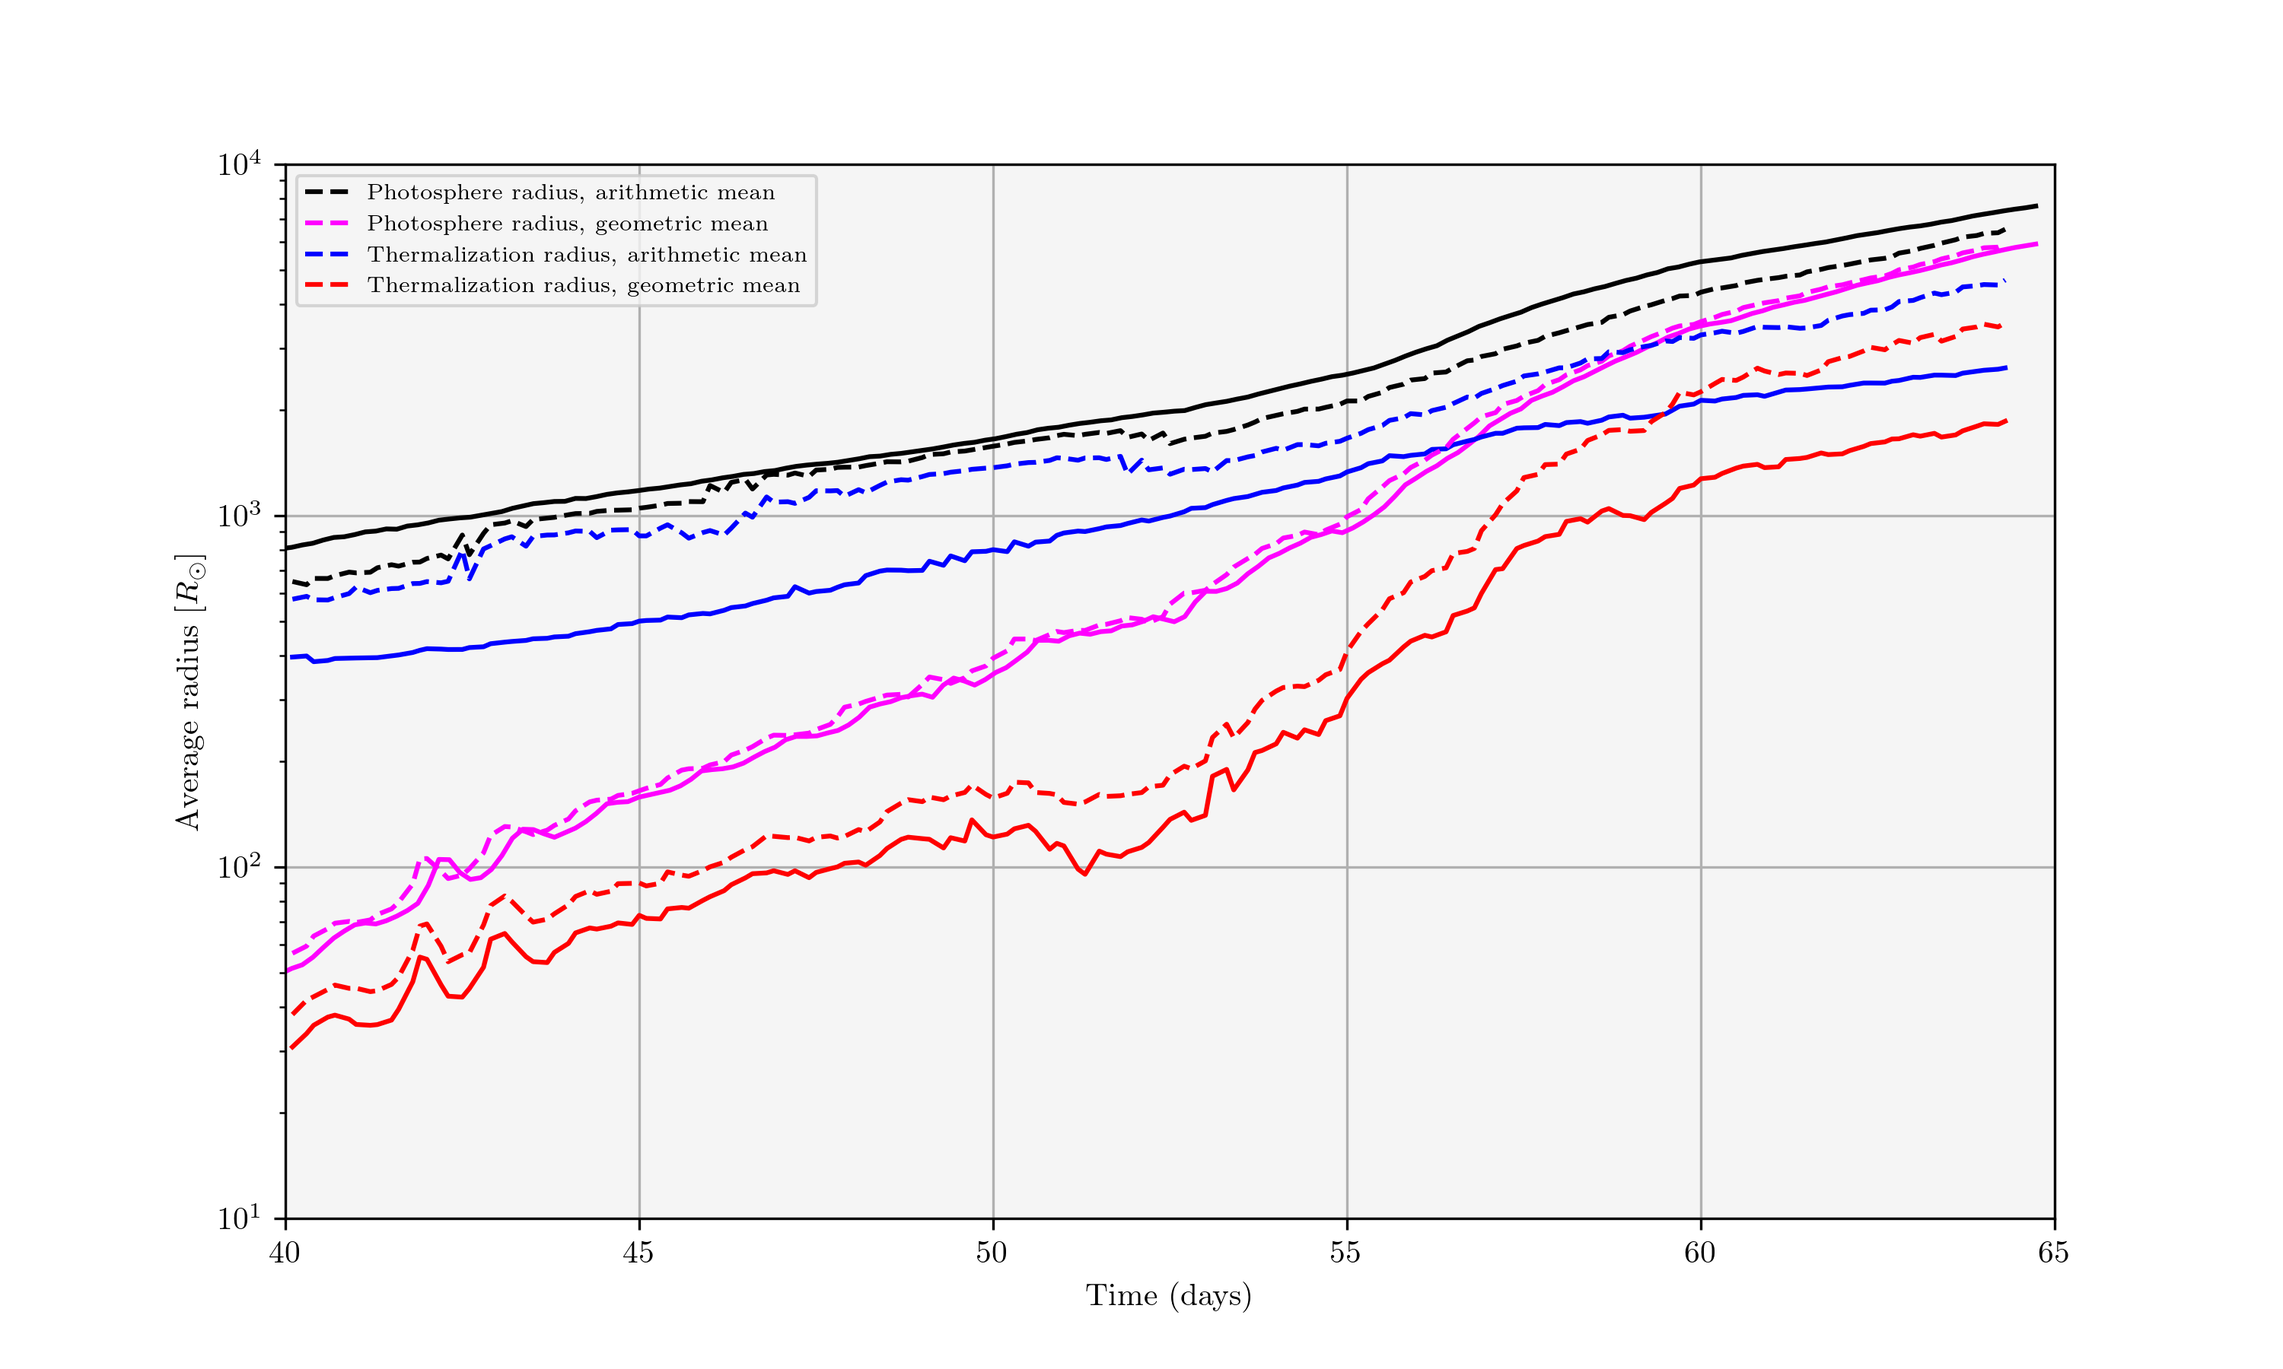
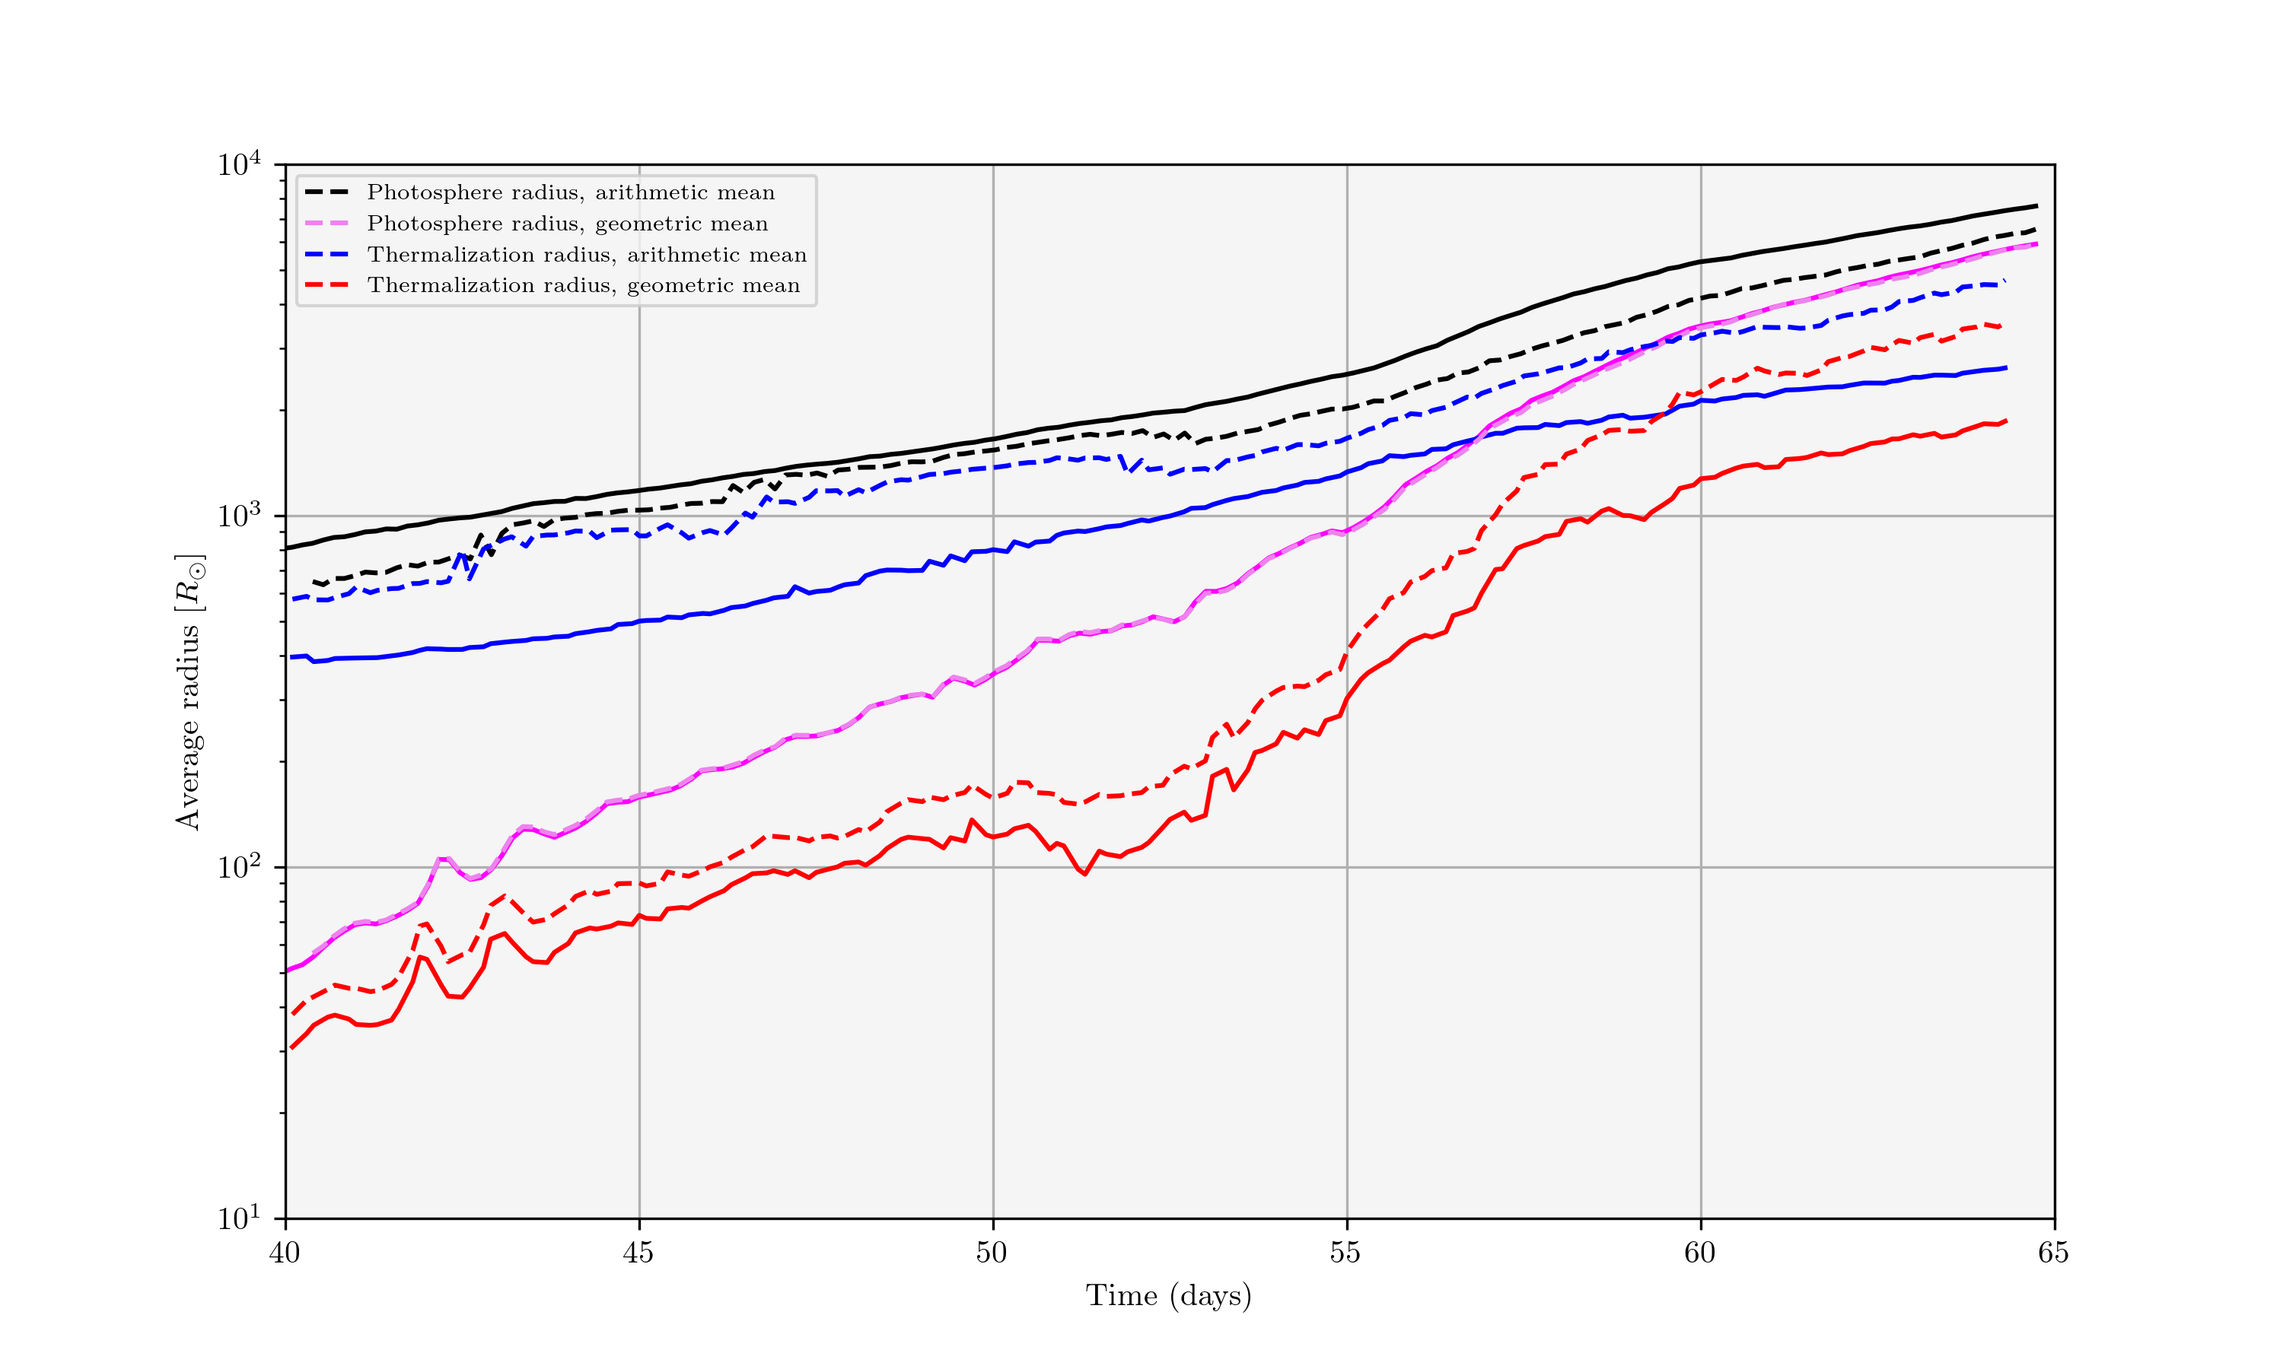
no more astropy for ray_maker. but nothing changes

diff --git a/src/Luminosity/special_radii_tree.py b/src/Luminosity/special_radii_tree.py
@@ -16,7 +16,7 @@ sys.path.append('/Users/paolamartire/tde_comparison')
 
 # Vanilla Imports
 import numpy as np
-import healpy as hp
+import h5py
 from scipy.stats import gmean
 
 import matplotlib.pyplot as plt
@@ -218,7 +218,8 @@ def get_specialr(rays_T, rays_den, radius, tree_indexes, select):
 if __name__ == "__main__":
     photosphere = True
     thermalisation = True
-    plot = False
+    plot = True
+    save = True
     check = 'fid'
     m = 6 
 
@@ -231,74 +232,86 @@ if __name__ == "__main__":
     fix_thermr_arit = np.zeros(len(snapshots))
     fix_thermr_geom = np.zeros(len(snapshots))
 
-    for index in range(len(snapshots)):        
+    for index in range(0,1):#len(snapshots)):        
         print('Snapshot ' + str(snapshots[index]))
         tree_indexes, _, rays_T, rays_den, rays, radii, rays_vol = ray_maker(snapshots[index], m, check)
 
         if photosphere:
             rays_kappa, rays_cumulative_kappas, rays_photo, _, _ = get_specialr(rays_T, rays_den, radii, tree_indexes, select='photo')
             rays_photo = rays_photo/Rsol_to_cm # to solar unit to plot
+            elad_photo = np.zeros(len(rays_photo))
+            with h5py.File(f'data/elad/data_{snapshots[index]}.mat', 'r') as f:
+                elad_ph = f['r_photo'][0]
+            for i in range(len(elad_photo)):
+                elad_photo[i] =  elad_ph[i]
 
             fix_photo_arit[index] = np.mean(rays_photo)
             fix_photo_geom[index] = gmean(rays_photo)
 
             if plot:
                 fig, ax = plt.subplots(figsize = (8,6))
-                img = ax.scatter(np.arange(192), rays_photo, c = 'k', s = 15)
+                ax.scatter(np.arange(192), rays_photo, c = 'k', s = 15, label = 'us')
+                ax.scatter(np.arange(192), elad_photo, c = 'b', s = 15, label = 'SteinbergStone')
+                plt.axhline(np.mean(elad_photo), c = 'r')#, label = r'$\bar{R}_{ph}$ arit mean') #Elad
+                plt.axhline(gmean(elad_photo), c = 'green')#, label = r'$\bar{R}_{ph}$ geom mean') #Elad
                 plt.axhline(np.mean(rays_photo), c = 'r', linestyle = '--', label = r'$\bar{R}_{ph}$ arit mean')
-                plt.axhline(gmean(rays_photo), c = 'b', linestyle = '--', label = r'$\bar{R}_{ph}$ geom mean')
-                # plt.axhline(800, c = 'r', label = r'$\bar{R}_{ph}$ arit mean') #Elad
-                # plt.axhline(50, c = 'b', label = r'$\bar{R}_{ph}$ geom mean') #Elad
+                plt.axhline(gmean(rays_photo), c = 'limegreen', linestyle = '--', label = r'$\bar{R}_{ph}$ geom mean')
                 plt.xlabel('Observers')
                 plt.ylabel('$\log_{10} R_{ph} [R_\odot]$')
                 plt.yscale('log')
                 plt.grid()
                 plt.legend()
-                plt.savefig('photo_obs' + str(snapshots[index]) + '.png')
+                #plt.savefig('Figs/photo_obs' + str(snapshots[index]) + '.png')
                 plt.show()  
-                
 
         if thermalisation: 
             rays_tau, rays_cumulative_taus, rays_thermr, _, _ = get_specialr(rays_T, rays_den, radii, tree_indexes, select= 'thermr')
             rays_thermr = rays_thermr/Rsol_to_cm # to solar unit to plot
+            rtherm = np.zeros(len(rays_thermr))
+            with h5py.File(f'data/elad/data_{snapshots[index]}.mat', 'r') as f:
+                elad_rtherm = f['r_therm'][0]
+            for i in range(len(rtherm)):
+                rtherm[i] =  elad_rtherm[i]
 
             fix_thermr_arit[index] = np.mean(rays_thermr)
             fix_thermr_geom[index] = gmean(rays_thermr)
             
             if plot: 
                 fig, ax = plt.subplots(figsize = (8,6))
-                img = ax.scatter(np.arange(192), rays_thermr, c = 'k', s = 15)
+                ax.scatter(np.arange(192), rays_thermr, c = 'k', s = 15, label = 'our')
+                ax.scatter(np.arange(192), rtherm, c = 'b', s = 15, label = 'SteinbergStone')
                 plt.axhline(np.mean(rays_thermr), c = 'r', linestyle = '--', label = r'$\bar{R}_{ph}$ arit mean')
-                plt.axhline(gmean(rays_thermr), c = 'b', linestyle = '--', label = r'$\bar{R}_{ph}$ geom mean')
-                # plt.axhline(800, c = 'r', label = r'$\bar{R}_{ph}$ arit mean') #Elad
-                # plt.axhline(50, c = 'b', label = r'$\bar{R}_{ph}$ geom mean') #Elad
+                plt.axhline(gmean(rays_thermr), c = 'green', linestyle = '--', label = r'$\bar{R}_{ph}$ geom mean')
+                plt.axhline(np.mean(rtherm), c = 'r')#, label = r'$\bar{R}_{ph}$ arit mean') #Elad
+                plt.axhline(gmean(rtherm), c = 'green')#, label = r'$\bar{R}_{ph}$ geom mean') #Elad
                 plt.xlabel('Observers')
                 plt.ylabel('$\log_{10} R_{therm} [R_\odot]$')
                 plt.yscale('log')
                 plt.grid()
-                plt.legend()
-                plt.savefig('therm_obs' + str(snapshots[index]) + '.png')
+                plt.legend(fontsize = 8)
+                plt.savefig('Figs/therm_obs' + str(snapshots[index]) + '.png')
                 plt.show()  
 
-    if photosphere:         
-        with open(f'data/TESTspecial_radii_m{m}.txt', 'a') as file:
-            file.write('# Run of ' + now + '\n#t/t_fb\n')
-            file.write(' '.join(map(str, days)) + '\n')
-            file.write('# Photosphere arithmetic mean \n')
-            file.write(' '.join(map(str, fix_photo_arit)) + '\n')
-            file.write('# Photosphere geometric mean \n')
-            file.write(' '.join(map(str, fix_photo_geom)) + '\n')
-            file.close()
-            
-    if thermalisation:
-        with open(f'data/special_radii_m{m}.txt', 'a') as file:
-            file.write('# Run of ' + now + '\n#t/t_fb\n')
-            file.write(' '.join(map(str, days)) + '\n')
-            file.write('# Thermalisation radius arithmetic mean \n')
-            file.write(' '.join(map(str, fix_thermr_arit)) + '\n')
-            file.write('# Thermalisation radius geometric mean \n')
-            file.write(' '.join(map(str, fix_thermr_geom)) + '\n')
-            file.close()
+    if save: 
+        if photosphere:         
+            with open(f'data/special_radii_m{m}.txt', 'a') as file:
+                file.write('# Run of ' + now + '\n#t/t_fb\n')
+                file.write(' '.join(map(str, days)) + '\n')
+                file.write('# Photosphere arithmetic mean \n')
+                file.write(' '.join(map(str, fix_photo_arit)) + '\n')
+                file.write('# Photosphere geometric mean \n')
+                file.write(' '.join(map(str, fix_photo_geom)) + '\n')
+                file.close()
+                
+        if thermalisation:
+            with open(f'data/special_radii_m{m}.txt', 'a') as file:
+                file.write('# Run of ' + now + '\n#t/t_fb\n')
+                file.write(' '.join(map(str, days)) + '\n')
+                file.write('# Thermalisation radius arithmetic mean \n')
+                file.write(' '.join(map(str, fix_thermr_arit)) + '\n')
+                file.write('# Thermalisation radius geometric mean \n')
+                file.write(' '.join(map(str, fix_thermr_geom)) + '\n')
+                file.close()
 
 
 

diff --git a/OLD stuff/ray_tree old.py b/OLD stuff/ray_tree old.py
@@ -12,6 +12,7 @@ sys.path.append('/Users/paolamartire/tde_comparison')
 import numpy as np
 from scipy.spatial import KDTree
 import healpy as hp
+from astropy.coordinates import spherical_to_cartesian
 from src.Luminosity.select_path import select_prefix
 import matplotlib.pyplot as plt
 AEK = '#F1C410'
@@ -35,12 +36,6 @@ num = 1000
 
 def isalice():
     return alice
-
-def find_sph_coord(r, theta,phi):
-    x = r * np.sin(np.pi-theta) * np.cos(phi) #because theta should start from the z axis: we're flipped
-    y = r * np.sin(np.pi-theta) * np.sin(phi)
-    z = r * np.cos(np.pi-theta)
-    return [x,y,z]
 
 def ray_maker(fix, m, check, num = 1000):
     """ Outputs are in CGS with exception of ray_vol (in solar units) """
@@ -88,27 +83,13 @@ def ray_maker(fix, m, check, num = 1000):
         #phis[i] -= np.pi # Enforce theta in -pi to pi for astropy
         observers.append( (thetas[i], phis[i]) )
     
-    tree_indexes = np.zeros((len(observers), len(radii)))
-    rays_T = np.zeros((len(observers), len(radii)))
-    rays_den = np.zeros((len(observers), len(radii)))
-    rays = np.zeros((len(observers), len(radii)))
-    rays_vol = np.zeros((len(observers), len(radii)))
-    for j in range(len(observers)):
-        for k, radius in enumerate(radii):
-            queried_value = find_sph_coord(radius, thetas[j], phis[j])
-            _, idx = sim_tree.query(queried_value)
-
-            # Store
-            tree_indexes[j][k] = idx 
-            rays_T[j][k] = T[idx] 
-            rays_den[j][k] = Den[idx] 
-            rays[j][k] = Rad[idx] 
-            rays_vol[j][k] = Vol[idx] # not in CGS
-
-    # Remove Bullshit
-    rays = np.nan_to_num(rays, neginf = 0)
-    rays_den = np.nan_to_num(rays_den, neginf = 0)
-    rays_T = np.nan_to_num(rays_T, neginf = 0)
+    thetas_astro = thetas - np.pi/2 # Enforce theta in -pi/2 to pi/2 for astropy
+    # Reshape
+    many_thetas = np.repeat(thetas_astro, len(radii))
+    many_phis = np.repeat(phis, len(radii))
+    many_radii = list(radii)
+    many_radii *= 192 # num of observers 
+    our_x, our_y, our_z = spherical_to_cartesian(many_radii, many_thetas, many_phis)
 
     #%% Plot
     # ax = plt.figure().add_subplot(projection='3d')
@@ -126,6 +107,44 @@ def ray_maker(fix, m, check, num = 1000):
     # ax.set_ylim(-10_000, 10_000)
     # ax.set_zlim(-10_000, 10_000)
     
+    #%% Find the neighbour to the cell of our grid and keep its values
+    tree_indexes = []
+    rays_T = []
+    rays_den = []
+    rays = []
+    rays_vol = []
+    for j in range(len(observers)):
+        branch_indexes = np.zeros(len(radii))
+        branch_T = np.zeros(len(radii))
+        branch_den = np.zeros(len(radii))
+        branch_energy = np.zeros(len(radii))
+        branch_vol = np.zeros(len(radii)) # not in CGS
+        
+        ray_start = j * num
+        ray_end = ray_start + num
+        for i, k in zip(range(ray_start, ray_end), range(num)):
+            # Get closest neighboor from tree
+            queried_value = [our_x[i], our_y[i], our_z[i]]
+            _, idx = sim_tree.query(queried_value)
+                                    
+            # Store
+            branch_indexes[k] = idx
+            branch_T[k] = T[idx]
+            branch_den[k] = Den[idx]
+            branch_energy[k] = Rad[idx]
+            branch_vol[k] = Vol[idx] # not in CGS 
+        
+        # Remove Bullshit
+        branch_energy = np.nan_to_num(branch_energy, neginf = 0)
+        branch_den = np.nan_to_num(branch_den, neginf = 0)
+        branch_T = np.nan_to_num(branch_T, neginf = 0)
+        
+        # Store as rays
+        tree_indexes.append(branch_indexes)
+        rays_T.append(branch_T)
+        rays_den.append(branch_den)
+        rays.append(branch_energy)
+        rays_vol.append(branch_vol) # not in CGS
         
     # Convert to CGS
     radii *= Rsol_to_cm

diff --git a/src/Plotting/Light-Curves/comparison_with_elad.py b/src/Plotting/Light-Curves/comparison_with_elad.py
@@ -96,7 +96,7 @@ if plot_radii_sphere:
     days = np.loadtxt('data/red/alicered'+ str(m) + check + '_days.txt')
     days *= 40
     spec_radii = np.loadtxt('data/special_radii_m'+ str(m) + '.txt') #from ALICE
-    test = np.loadtxt('data/test.txt') #from ALICE 
+    test = np.loadtxt('data/TESTspecial_radii_m'+ str(m) + '.txt') #from ALICE 
     dtest = test[0]*40
     rtest = test[-1]
     photo_arit = spec_radii[1]
@@ -111,11 +111,11 @@ if plot_radii_sphere:
     plt.plot(days,rtherm[1], c = 'r')
 
     # Our plot
-    plt.plot(days, photo_arit, '--', color = 'black', label = 'Photosphere radius, arithmetic mean')
-    plt.plot(days, photo_geom, '--', color = 'magenta', label = 'Photosphere radius, geometric mean')
+    plt.plot(elad_time[0][23:], photo_arit, '--', color = 'black', label = 'Photosphere radius, arithmetic mean')
+    plt.plot(elad_time[0][23:], photo_geom, '--', color = 'violet', label = 'Photosphere radius, geometric mean')
     plt.plot(days, thermr_arit, '--', color = 'b', label = 'Thermalization radius, arithmetic mean')
     plt.plot(days, thermr_geom, '--', color = 'r', label = 'Thermalization radius, geometric mean')
-    plt.scatter(dtest, rtest, color = 'r', label = 'test')
+    # plt.plot(dtest, rtest, color = 'k', label = 'test')
     plt.xlabel('Time (days)')
     plt.xlim(40,65)
     plt.ylim(10,1e4)
@@ -123,7 +123,7 @@ if plot_radii_sphere:
     plt.grid()
     plt.yscale('log')
     plt.legend(fontsize = 7)
-    #plt.savefig('Final_plot/radii_comparison.png')
+    plt.savefig('Final_plot/radii_comparison.png')
     plt.show()
 
 if plot_fit:

diff --git a/testspectra.py b/testspectra.py
@@ -15,6 +15,7 @@ alice, plot = isalice()
 # Vanilla imports
 import numpy as np
 import matplotlib.pyplot as plt
+import h5py
 
 plt.rcParams['text.usetex'] = True
 plt.rcParams['figure.dpi'] = 300
@@ -23,16 +24,33 @@ pre = '/home/s3745597/data1/TDE/tde_comparison'
 
 m = 6
 snap = 881
-nL_tilde_n = np.loadtxt(f'data/blue/nLn_single_m{m}_{snap}.txt')
+nL_tilde_n = np.loadtxt(f'data/blue/nLn_single_m{m}_{snap}_all.txt')
+nL_tilde_n_new = np.zeros(len(nL_tilde_n[1]))
+for i in range(len(nL_tilde_n[1])):
+    for iobs in range(len(nL_tilde_n_new)):
+        nL_tilde_n_new[i] += nL_tilde_n[iobs][i]
+#nL_tilde_n_new /= 192
 x_array = np.loadtxt(f'data/blue/spectrafreq_m{m}.txt')
 n_array = np.power(10, x_array)
 
-Ltot = 0 
-for i in range(len(nL_tilde_n)):
-    xLx =  n_array * nL_tilde_n[i]
-    L = np.trapz(xLx, x_array) 
-    L *= np.log(10)
-    Ltot += L
-Ltot /= len(nL_tilde_n)
+# Ltot = 0 
+# for i in range(len(nL_tilde_n)):
+#     xLx =  n_array * nL_tilde_n[i]
+#     L = np.trapz(xLx, x_array) 
+#     L *= np.log(10)
+#     Ltot += L
+# Ltot /= len(nL_tilde_n)
 
-print(Ltot)
+# print(Ltot)
+
+L = np.trapz(n_array * nL_tilde_n_new, x_array) 
+L *= np.log(10)
+L /= len(nL_tilde_n)
+print(L)
+
+with open(f'data/test.txt', 'a') as file:  
+    file.write(' '.join(map(str, nL_tilde_n_new)) + '\n')
+    file.close()
+
+with h5py.File(f'data/elad/data_881.mat', 'r') as f:
+    print(f.keys())

diff --git a/src/Luminosity/spectra.py b/src/Luminosity/spectra.py
@@ -79,18 +79,6 @@ def normalisation(L_x: np.array, x_array: np.array, luminosity_fld: float) -> fl
     norm = luminosity_fld / L
     return norm
 
-# def select_rays(wanted_theta, wanted_phi, rays_T, rays_den, rays_cumulative_taus):
-#     _, _, wanted_indexes = select_observer(wanted_theta, wanted_phi)
-#     rays_T_new = []
-#     rays_den_new = []
-#     rays_cumulative_taus_new = []
-#     for idx in wanted_indexes:
-#         rays_T_new.append(rays_T[idx])
-#         rays_den_new.append(rays_den[idx])
-#         rays_cumulative_taus_new.append(rays_cumulative_taus[idx])
-
-#     return rays_T_new, rays_den_new, rays_cumulative_taus_new
-
 def find_sph_coord(theta,phi):
     x = np.sin(np.pi-theta) * np.cos(phi) #because theta should start from the z axis: we're flipped
     y = np.sin(np.pi-theta) * np.sin(phi)
@@ -148,7 +136,7 @@ if __name__ == "__main__":
     fld_data = np.loadtxt('data/red/reddata_m'+ str(m) + check +'.txt')
     luminosity_fld_fix = fld_data[1]
     
-    for idx_sn in range(1,2): #so you take 881
+    for idx_sn in range(1,2): #so you take snap 881
         snap = snapshots[idx_sn]
         print(f'Snap{snap}')
 

diff --git a/src/Luminosity/fit.py b/src/Luminosity/fit.py
@@ -26,8 +26,8 @@ h = 6.62607015e-27 # [gcm^2/s]
 Kb = 1.380649e-16 #[gcm^2/s^2K]
 sigma = 5.67037e-5
 # ztf: 3.23e14 - 6.71e14 // swift: 6.34e14 - 1.88e15
-freq_min = 1e15
-freq_max = 1e18
+freq_min = 3.23e14
+freq_max = 1.88e15
 
 
 ##
